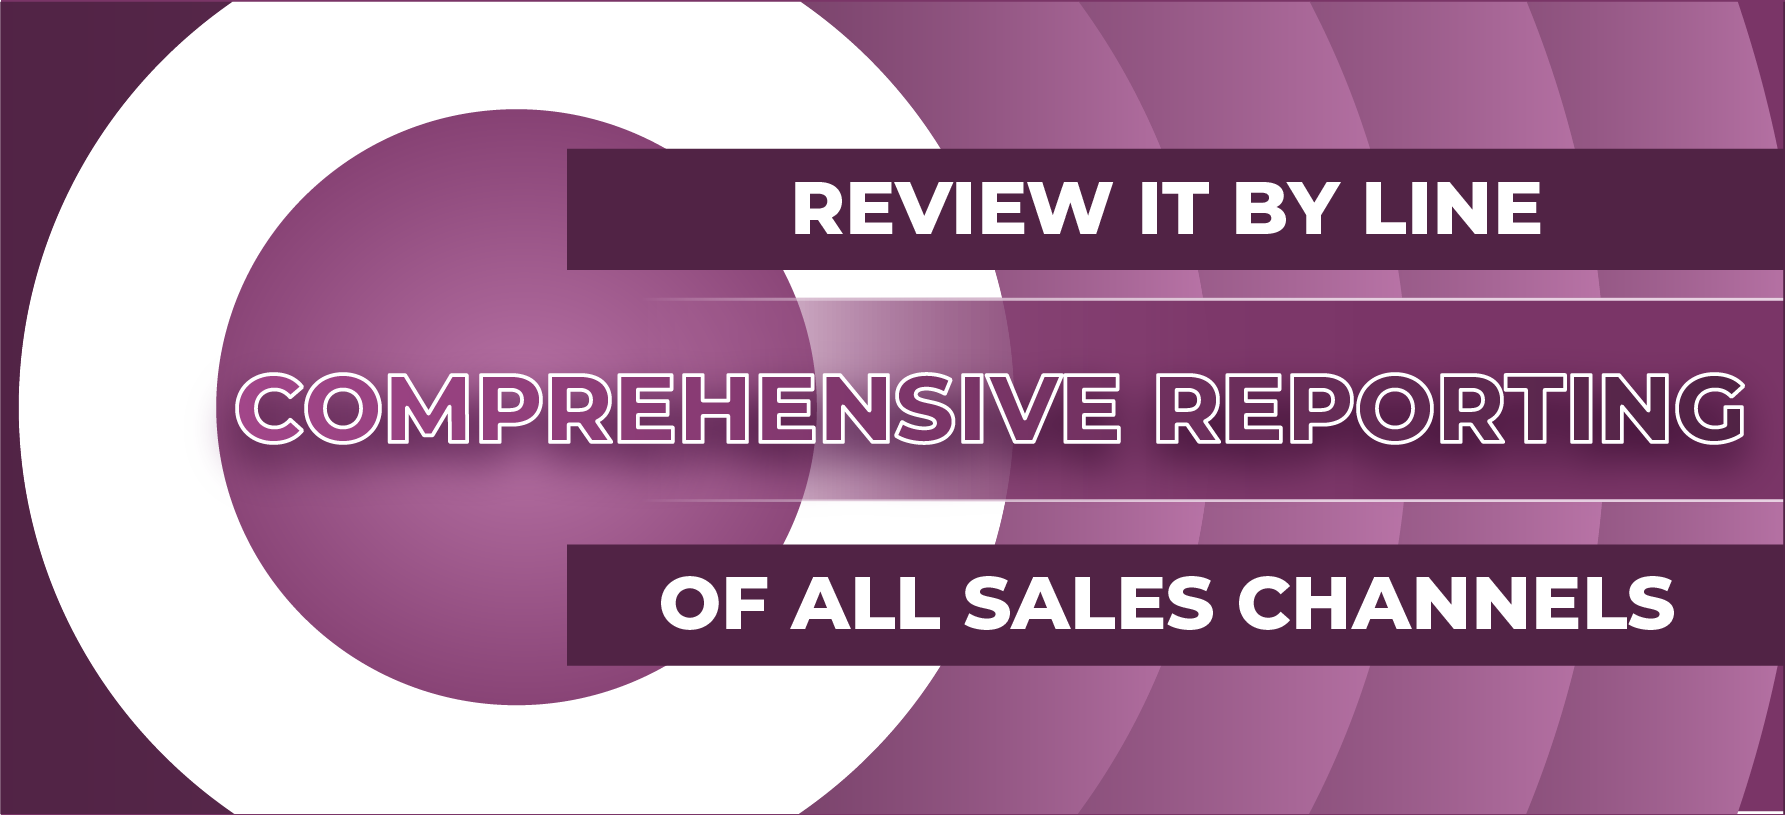
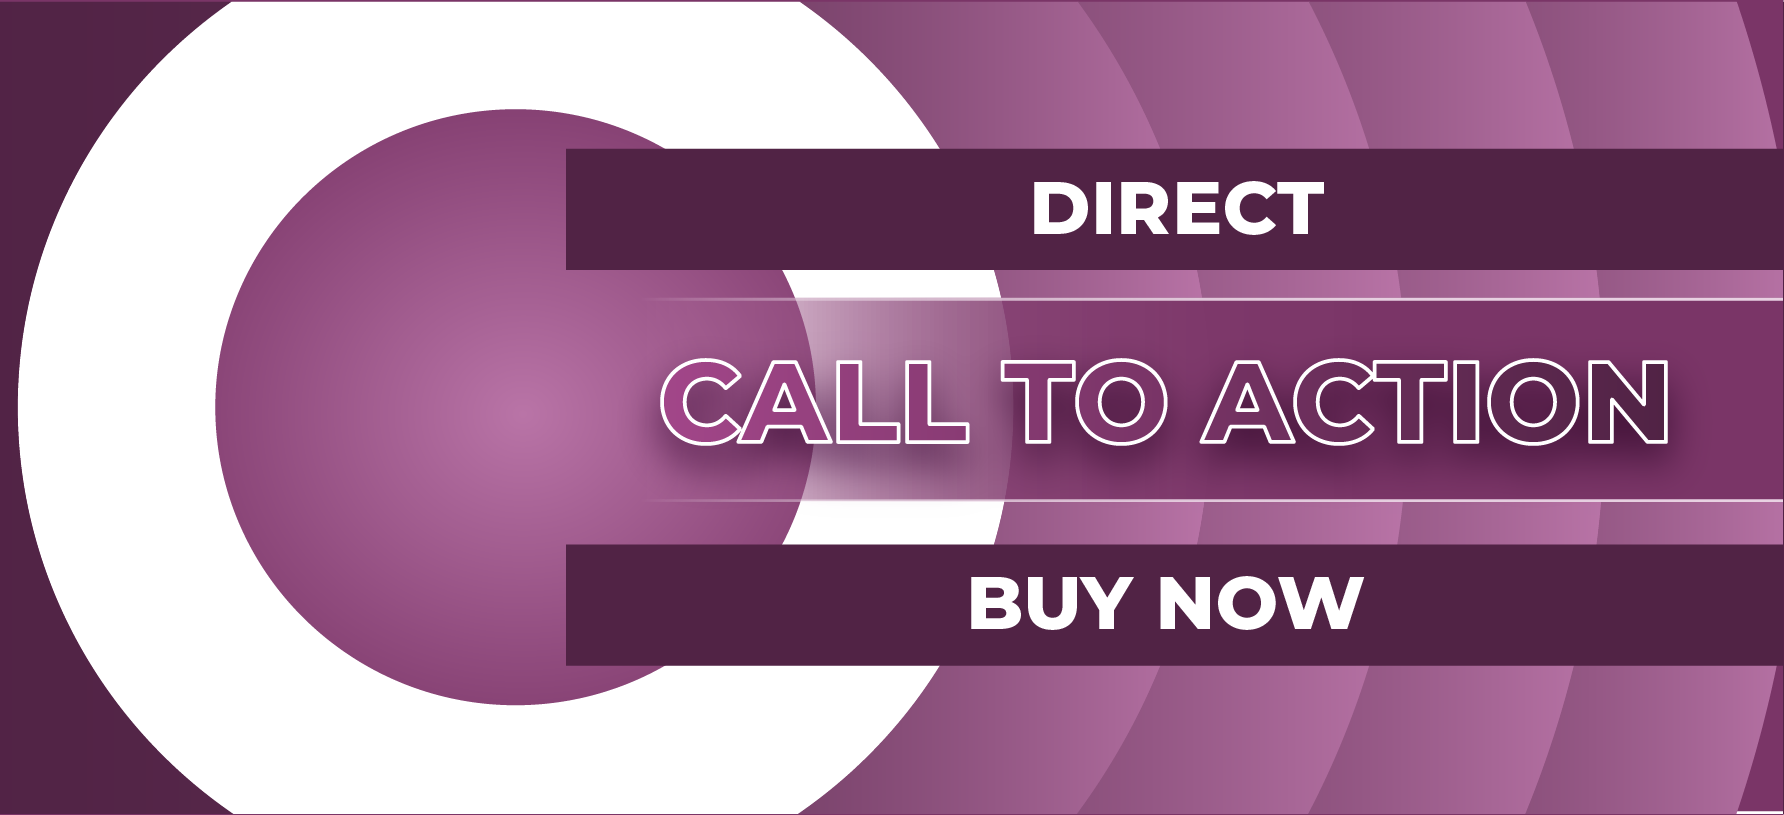
dfd

Changed region(s): [[0.1233, 0.4294, 0.9865, 0.5828], [0.37, 0.7055, 0.9557, 0.7975], [0.4316, 0.2147, 0.8632, 0.3067]]

diff --git a/static/description/index.html b/static/description/index.html
@@ -85,58 +85,57 @@
      <div
           style="background-color: #f6edf3; border-radius: 8px; padding: 20px; box-shadow: 0px 4px 8px rgba(0, 0, 0, 0.1); margin: 20px;">
           <img src="images/features 1.png" style="width: 90px; padding: 10px 0;" />
-          <h2 style="font-size: 20px; margin-bottom: 10px;">   Detailed Product-Line Reporting Tool sourced from all Sales Channels
+          <h2 style="font-size: 20px; margin-bottom: 10px;">    Adds a Buy button on your website product detail page
                </h2>
      </div>
      <div
           style="background-color: #f6edf3; border-radius: 8px; padding: 20px; box-shadow: 0px 4px 8px rgba(0, 0, 0, 0.1); margin: 20px;">
-          <img src="images/features 2.png" style="width: 90px;padding: 10px 0;" />
-          <h2 style="font-size: 20px; margin-bottom: 10px;"> Exportable SKU Line Reporting, Tabular and Graphical View </h2>
+          <img src="images/features 2.png" style="width: 90px;padding: 10px 0; " />
+          <h2 style="font-size: 20px; margin-bottom: 10px;">   Skips the Add to Cart step </h2>
           <!-- <p>text22222.</p> -->
      </div>
-
+        
      <div
-     style=" grid-column: 1/3 ;background-color: #f6edf3; border-radius: 8px; padding: 20px; box-shadow: 0px 4px 8px rgba(0, 0, 0, 0.1); margin: 20px;">
-     <img src="images/features 3.png" style="width: 90px;padding: 10px 0;" />
-     <h2 style="font-size: 20px; margin-bottom: 10px;"> Combines Website, Wholesale, POS and other Sales Channels onto One Report</h2>
+     style="grid-column: 1/3 ;background-color: #f6edf3; border-radius: 8px; padding: 20px; box-shadow: 0px 4px 8px rgba(0, 0, 0, 0.1); margin: 20px;">
+     <img src="images/features 3.png" style="width: 90px;padding: 10px 0; " />
+
+     <h2 style="font-size: 20px; margin-bottom: 10px;"> Creates immediate action than decision making </h2>
      <!-- <p>text22222.</p> -->
-</div>
+     </div>
+ 
       
      
 </section>
 <!-- ------------------------------------------------------------------------------------------ -->
 
-
+<!----------------------- HOW IT WORKS Section ------------------------------------------------>
 <section style="
-display: grid;
-grid-template-columns: 1fr 1fr;
-grid-template-rows: auto;
-justify-content: center;
-background-color: #f6edf3;
-padding-bottom: 50px;
-padding-top: 50px;
-font-family:sans-serif;">
-<h2 style="grid-column: 1/3; text-align: center; color: #676767; font-weight: 700;">
-     HOW IT WORKS
-</h2>
-
- <div
-     style=" grid-column: 1/3 ;background-color: #ffffff; border-radius: 8px; padding: 20px; box-shadow: 0px 4px 8px rgba(0, 0, 0, 0.1); margin: 20px;">
-      <h2 style="font-size: 20px; margin-bottom: 10px; text-align: center;">  
-     <p class="mt10"> No configuration required, just install and view your analytical report 
-         </p>
-          </h2>
+     display: grid;
+     grid-template-columns: 1fr 1fr;
+     grid-template-rows: auto;
+     justify-content: center;
+     background-color: #f6edf3;
+     padding-bottom: 50px;
+     padding-top: 50px;
+     font-family:sans-serif;">
+     <h2 style="grid-column: 1/3; text-align: center; color: #676767; font-weight: 700;">
+          HOW IT WORKS
+     </h2>
+      
+       
+     
+     <div
+     style=" grid-column: 1/3 ;background-color:#ffffff; border-radius: 8px; padding: 20px; box-shadow: 0px 4px 8px rgba(0, 0, 0, 0.1); margin: 20px;">
+      <h2 style="font-size: 20px; margin-bottom: 10px;"> No critical configuration required, just install and adjust through the website configuration tab </h2>
      <!-- <p>text22222.</p> -->
 </div>
+      
 </section>
 
  
- 
-     <!-- Footer Section -->
+
+<!-- Footer Section -->
 <section style="width: 100%;font-family:sans-serif;">
      <img src="images/footer-gif.gif" style="padding-top: 25px; width: 100%;height: auto;">
 </section>
 <!-- ------------------------------------------------------------------------------------------ -->
-
-
- 
